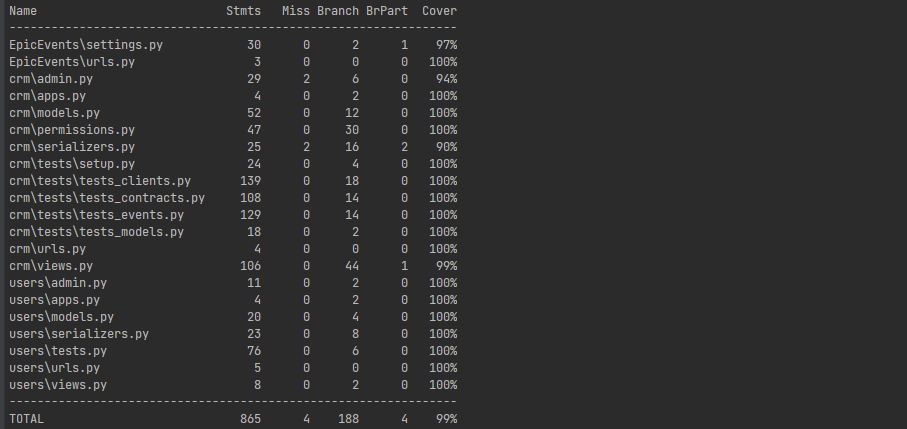
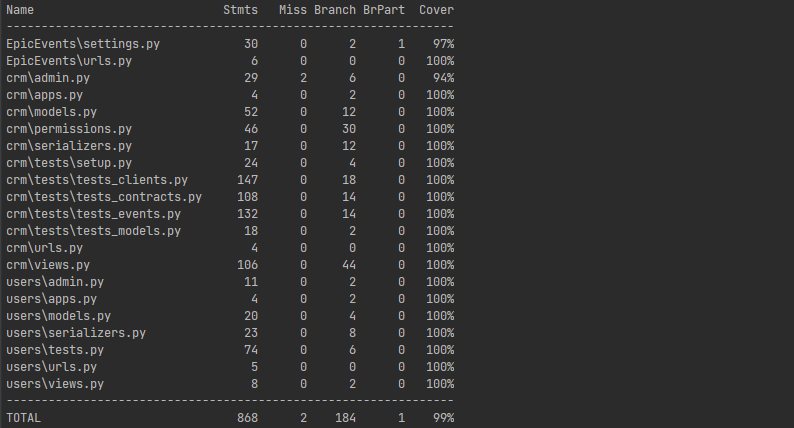
update tests error messages

diff --git a/crm/tests/tests_events.py b/crm/tests/tests_events.py
@@ -1,5 +1,4 @@
 from rest_framework import status
-from rest_framework.exceptions import ValidationError, PermissionDenied
 from rest_framework.reverse import reverse
 
 from crm.models import Client, Contract, Event
@@ -30,8 +29,8 @@ class EventListTests(CustomAPITestCase):
             'payment_due': '2022-10-09',
             'status': False
         }
-        test_client.post(self.event_list_url, data, format='json')
-        self.assertRaises(PermissionDenied, msg='Create, update and delete objects via Admin site.')
+        response = test_client.post(self.event_list_url, data, format='json')
+        self.assertEqual(response.status_code, status.HTTP_403_FORBIDDEN)
 
     # --- Sales ---
     def test_sales_get_event_list(self):
@@ -72,9 +71,9 @@ class EventListTests(CustomAPITestCase):
             'attendees': 50,
             'event_date': '2022-10-09'
         }
-        test_client.post(self.event_list_url, data, format='json')
+        response = test_client.post(self.event_list_url, data, format='json')
 
-        self.assertRaises(ValidationError, msg="The contract is not signed.")
+        self.assertEqual(response.status_code, status.HTTP_400_BAD_REQUEST)
 
     def test_sales_post_event_incomplete_data(self):
         """Check validation for missing fields in request"""
@@ -166,8 +165,9 @@ class EventDetailTests(CustomAPITestCase):
             'attendees': 78,
             'event_date': '2022-09-10'
         }
-        test_client.put('/crm/events/3/', data)
-        self.assertRaises(ValidationError, msg='Cannot update a finished event.')
+        response = test_client.put('/crm/events/3/', data)
+        self.assertEqual(response.status_code, status.HTTP_403_FORBIDDEN)
+        self.assertEqual(response.json(), {"detail": "Cannot update a finished event."})
 
     def test_sales_update_event_contract(self):
         """Sales not allowed to update contract related to an event"""
@@ -184,8 +184,9 @@ class EventDetailTests(CustomAPITestCase):
             'event_date': '2022-09-10',
             'notes': 'Example note'
         }
-        test_client.put('/crm/events/1/', data)
-        self.assertRaises(PermissionDenied, msg='You are not allowed to change the related contract.')
+        response = test_client.put('/crm/events/1/', data)
+        self.assertEqual(response.status_code, status.HTTP_400_BAD_REQUEST)
+        self.assertEqual(response.json(), {"detail": "Cannot change the related contract."})
 
     def test_update_event_incomplete_data(self):
         """Check validation for missing fields in request"""
@@ -233,8 +234,10 @@ class EventDetailTests(CustomAPITestCase):
             'attendees': 78,
             'event_date': '2022-09-10'
         }
-        test_client.put('/crm/events/3/', data)
-        self.assertRaises(ValidationError, msg='Cannot update a finished event.')
+        response = test_client.put('/crm/events/3/', data)
+
+        self.assertEqual(response.status_code, status.HTTP_403_FORBIDDEN)
+        self.assertEqual(response.json(), {"detail": "Cannot update a finished event."})
 
     def test_support_update_event_contract(self):
         """Support not allowed to update contract related to an event"""
@@ -251,5 +254,7 @@ class EventDetailTests(CustomAPITestCase):
             'event_date': '2022-09-10',
             'notes': 'Example note'
         }
-        test_client.put('/crm/events/1/', data)
-        self.assertRaises(ValidationError, msg='Cannot change the related contract.')
+        response = test_client.put('/crm/events/1/', data)
+
+        self.assertEqual(response.status_code, status.HTTP_400_BAD_REQUEST)
+        self.assertEqual(response.json(), {"detail": "Cannot change the related contract."})

diff --git a/crm/tests/tests_clients.py b/crm/tests/tests_clients.py
@@ -1,5 +1,4 @@
 from rest_framework import status
-from rest_framework.exceptions import PermissionDenied, ValidationError
 from rest_framework.reverse import reverse
 
 from crm.models import Client
@@ -30,8 +29,8 @@ class ClientListTests(CustomAPITestCase):
             'email': 'test_client@email.com',
             'status': False
         }
-        test_client.post(self.client_list_url, data, format='json')
-        self.assertRaises(PermissionDenied, msg='Create, update and delete objects via Admin site.')
+        response = test_client.post(self.client_list_url, data, format='json')
+        self.assertEqual(response.status_code, status.HTTP_403_FORBIDDEN)
 
     # --- Sales ---
     def test_sales_get_client_list(self):
@@ -163,7 +162,7 @@ class ClientDetailTests(CustomAPITestCase):
                 else:
                     self.assertFalse(Client.objects.get(id=id_list[i]).status)
 
-    def test_sales_update_client(self):
+    def test_sales_update_client_status_true(self):
         """Sales can update client if their own client or unconverted client
         If updated status is True, check if sales_contact is user
         """
@@ -181,6 +180,24 @@ class ClientDetailTests(CustomAPITestCase):
         self.assertEqual('updated_email@email.com', response.data['email'])
         self.assertEqual(response.data['sales_contact'], user.id)
 
+    def test_sales_update_client_status_false(self):
+        """Sales can update client if their own client or unconverted client
+        If updated status is False, check if sales_contact is None
+        """
+        user = User.objects.get(username='test_sales')
+        test_client = self.get_token_auth_client(user)
+        data = {
+            'first_name': 'Michel',
+            'last_name': 'Leblanc',
+            'email': 'updated_email@email.com',
+            'status': False
+        }
+        response = test_client.put('/crm/clients/4/', data)
+
+        self.assertEqual(response.status_code, status.HTTP_202_ACCEPTED)
+        self.assertIn('updated_email@email.com', response.data['email'])
+        self.assertEqual(response.data['sales_contact'], None)
+
     def test_sales_update_converted_client_status(self):
         """Sales not allowed to update client status if True"""
         user = User.objects.get(username='test_sales')
@@ -191,8 +208,9 @@ class ClientDetailTests(CustomAPITestCase):
             'email': 'compta-dupont@email.com',
             'status': False
         }
-        test_client.put('/crm/clients/2/', data)
-        self.assertRaises(ValidationError, msg='Cannot change status of converted client.')
+        response = test_client.put('/crm/clients/2/', data)
+        self.assertEqual(response.status_code, status.HTTP_400_BAD_REQUEST)
+        self.assertEqual(response.json(), {"detail": "Cannot change status of converted client."})
 
     def test_sales_delete_prospect(self):
         """Sales can delete client if status is False"""

diff --git a/users/tests.py b/users/tests.py
@@ -1,8 +1,6 @@
 from django.urls import reverse
 from rest_framework import status
-from rest_framework.exceptions import ValidationError
 from rest_framework.test import APITestCase
-from rest_framework_simplejwt.exceptions import AuthenticationFailed
 
 from .models import User, MANAGEMENT, SALES, SUPPORT
 
@@ -35,7 +33,7 @@ class LoginTests(APITestCase):
         response = self.client.post(LOGIN_URL, data, format='json')
 
         self.assertEqual(response.status_code, status.HTTP_401_UNAUTHORIZED)
-        self.assertRaises(AuthenticationFailed, msg='No active account found with the given credentials')
+        self.assertEqual(response.json(), {"detail": 'No active account found with the given credentials'})
 
     def test_login_wrong_password(self):
         user = User.objects.get(username='test_user')
@@ -46,7 +44,7 @@ class LoginTests(APITestCase):
         response = self.client.post(LOGIN_URL, data, format='json')
 
         self.assertEqual(response.status_code, status.HTTP_401_UNAUTHORIZED)
-        self.assertRaises(AuthenticationFailed, msg='No active account found with the given credentials')
+        self.assertEqual(response.json(), {"detail": 'No active account found with the given credentials'})
 
 
 class UpdatePasswordTests(APITestCase):
@@ -85,7 +83,7 @@ class UpdatePasswordTests(APITestCase):
         response = client.put(UPDATE_PASSWORD_URL, data, format='json')
 
         self.assertEqual(response.status_code, status.HTTP_400_BAD_REQUEST)
-        self.assertRaises(ValidationError, msg="Old password is not correct.")
+        self.assertEqual(response.json(), {'old_password': {'old_password': 'Old password is not correct.'}})
 
     def test_non_identical_new_passwords(self):
         client = self.get_token_auth_client()
@@ -97,7 +95,7 @@ class UpdatePasswordTests(APITestCase):
         response = client.put(UPDATE_PASSWORD_URL, data, format='json')
 
         self.assertEqual(response.status_code, status.HTTP_400_BAD_REQUEST)
-        self.assertRaises(ValidationError, msg="Password fields didn't match.")
+        self.assertEqual(response.json(), {"password": ["Password fields didn't match."]})
 
 
 class UserModelTests(APITestCase):

diff --git a/crm/tests/tests_contracts.py b/crm/tests/tests_contracts.py
@@ -1,5 +1,4 @@
 from rest_framework import status
-from rest_framework.exceptions import ValidationError, PermissionDenied
 from rest_framework.reverse import reverse
 
 from crm.models import Client, Contract
@@ -30,8 +29,8 @@ class ContractListTests(CustomAPITestCase):
             'payment_due': '2022-10-09',
             'status': False
         }
-        test_client.post(self.contract_list_url, data, format='json')
-        self.assertRaises(PermissionDenied, msg='Create, update and delete objects via Admin site.')
+        response = test_client.post(self.contract_list_url, data, format='json')
+        self.assertEqual(response.status_code, status.HTTP_403_FORBIDDEN)
 
     # --- Sales ---
     def test_sales_get_contract_list(self):
@@ -72,8 +71,8 @@ class ContractListTests(CustomAPITestCase):
             'payment_due': '2022-10-09',
             'status': False
         }
-        test_client.post(self.contract_list_url, data, format='json')
-        self.assertRaises(ValidationError, msg='The client is not converted.')
+        response = test_client.post(self.contract_list_url, data, format='json')
+        self.assertEqual(response.status_code, status.HTTP_400_BAD_REQUEST)
 
     def test_post_contract_incomplete_data(self):
         """Check validation for missing fields in request"""
@@ -160,8 +159,9 @@ class ContractDetailTests(CustomAPITestCase):
             'payment_due': '2022-10-09',
             'status': True
         }
-        test_client.put('/crm/contracts/3/', data)
-        self.assertRaises(PermissionDenied, msg='Cannot update a signed contract.')
+        response = test_client.put('/crm/contracts/3/', data)
+        self.assertEqual(response.status_code, status.HTTP_403_FORBIDDEN)
+        self.assertEqual(response.json(), {"detail": "Cannot update a signed contract."})
 
     def test_update_contract_incomplete_data(self):
         """Check validation for missing fields in request"""

diff --git a/crm/views.py b/crm/views.py
@@ -56,7 +56,7 @@ class ClientDetail(generics.RetrieveUpdateDestroyAPIView):
         serializer = ClientSerializer(data=request.data, instance=client)
         if serializer.is_valid(raise_exception=True):
             if client.status is True and serializer.validated_data['status'] is False:
-                raise ValidationError("Cannot change status of converted client.")
+                raise ValidationError({"detail": "Cannot change status of converted client."})
             elif serializer.validated_data['status'] is True:
                 serializer.validated_data['sales_contact'] = request.user
             serializer.save()
@@ -143,7 +143,7 @@ class EventDetail(generics.RetrieveUpdateAPIView):
         serializer = EventSerializer(instance=event, data=request.data)
         if serializer.is_valid(raise_exception=True):
             if serializer.validated_data['contract'] != event.contract:
-                raise ValidationError("Cannot change the related contract.")
+                raise ValidationError({"detail": "Cannot change the related contract."})
             serializer.validated_data['support_contact'] = event.support_contact
             serializer.save()
             return Response(serializer.data, status=status.HTTP_202_ACCEPTED)

diff --git a/crm/serializers.py b/crm/serializers.py
@@ -16,19 +16,9 @@ class ContractSerializer(serializers.ModelSerializer):
         fields = '__all__'
         read_only__fields = ['date_created', 'date_updated', 'sales_contact', 'id']
 
-    def validate_client(self, value):
-        if value.status is False:
-            raise serializers.ValidationError("The client is not converted.")
-        return value
-
 
 class EventSerializer(serializers.ModelSerializer):
     class Meta:
         model = Event
         fields = '__all__'
         read_only__fields = ['date_created', 'date_updated', 'support_contact', 'event_status', 'id']
-
-    def validate_contract(self, value):
-        if value.status is False:
-            raise serializers.ValidationError("The contract is not signed.")
-        return value

diff --git a/crm/permissions.py b/crm/permissions.py
@@ -9,7 +9,6 @@ class IsManager(permissions.BasePermission):
     """ Managers have read_only permissions on the crm.
     Post, put or delete has to be done via the admin site.
     """
-    message = 'Create, update and delete objects via Admin site.'
 
     def has_permission(self, request, view):
         return request.user.team == MANAGEMENT and request.method in permissions.SAFE_METHODS

diff --git a/README.md b/README.md
@@ -117,11 +117,13 @@ L'application consigne les erreurs et exceptions dans le fichier [errors.log](er
 
 Il est possible d'effectuer les tests via la commande ```python manage.py test```. 
 
-> *Rapport de test le plus récent*
+- *Rapport de test le plus récent*
+
 ![Rapport de test](img/test_report.png)
 
 
 Pour effectuer le test de couverture : ```coverage run --source='.' manage.py test``` puis ```coverage report```.
 
-> *Rapport de couverture le plus récent*
+- *Rapport de couverture le plus récent*
+
 ![Rapport de test](img/coverage_report.png)
